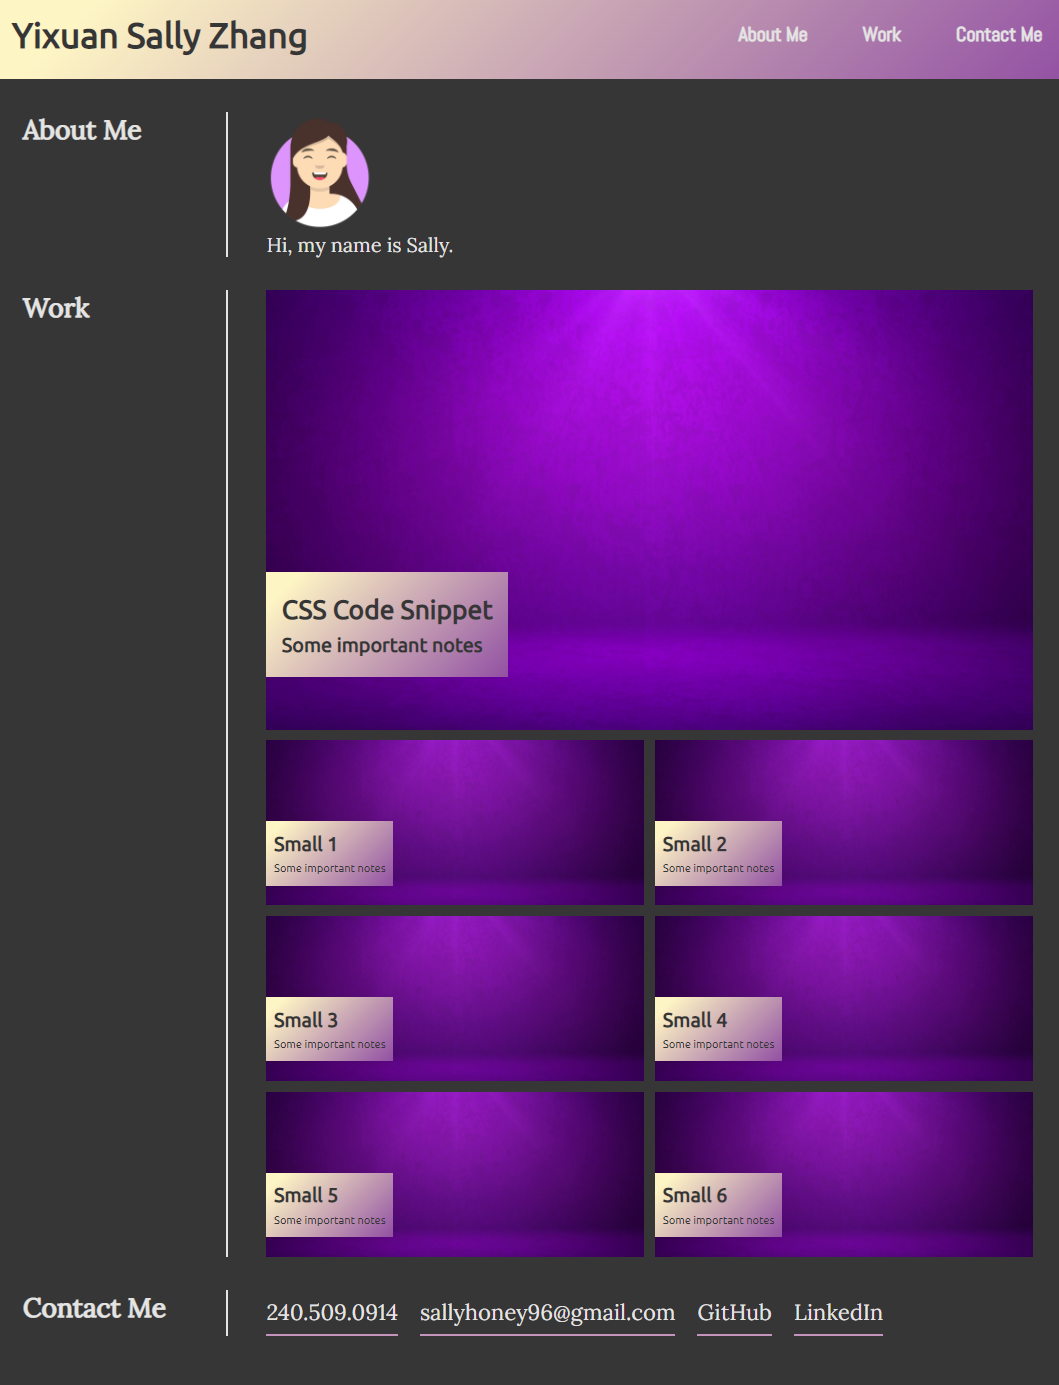
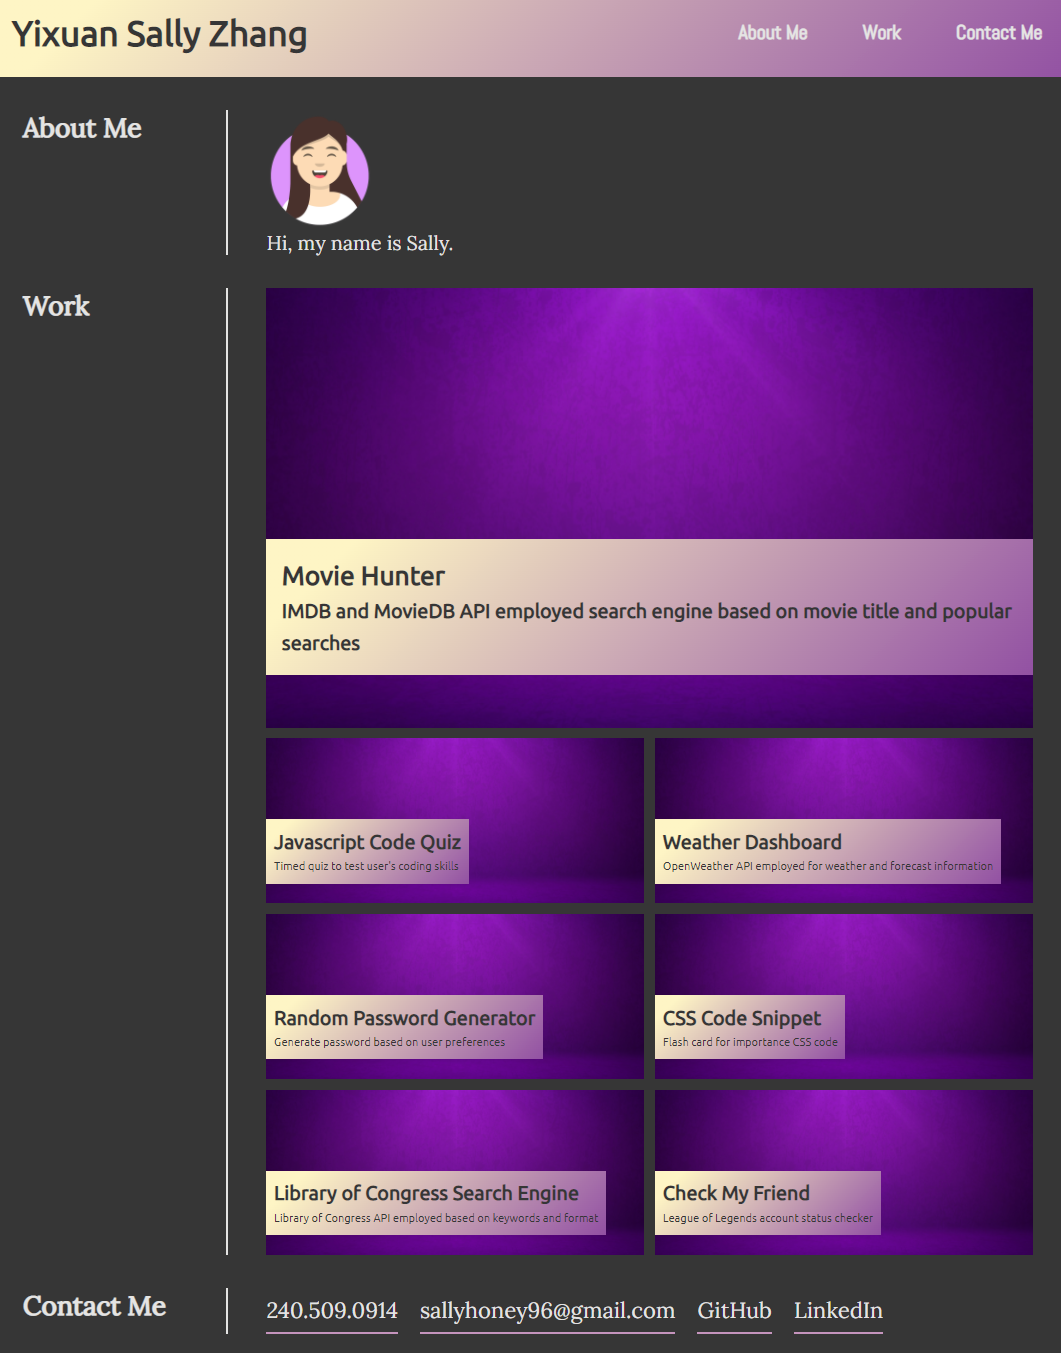
update portfolio

diff --git a/index.html b/index.html
@@ -39,60 +39,60 @@
                 <h2 class="title" id="work">Work</h2>
                 <div class="content">
                     <div class="project large">
-                        <a href="https://banbanleelee.github.io/CSSCodeSnippet/" target="_blank"><img src="./asset/image/placeholder.png" alt="CSS Code Snippet" class="large"/></a>
+                        <a href="https://anthonypacella.github.io/MovieHunter/" target="_blank"><img src="./asset/image/placeholder.png" alt="Movie Hunter" class="large"/></a>
                         <div class="text-box">
-                            <div class="project-title">CSS Code Snippet</div>
-                            <div class="project-subtitle">Some important notes</div>
+                            <div class="project-title">Movie Hunter</div>
+                            <div class="project-subtitle">IMDB and MovieDB API employed search engine based on movie title and popular searches</div>
                         </div>
                     </div>
                     
                     <div class="project medium">
                         <div class="project small">
-                            <a href="https://banbanleelee.github.io/CSSCodeSnippet/" target="_blank"><img src="./asset/image/placeholder.png" alt="CSS Code Snippet" class="small"/></a>
+                            <a href="https://banbanleelee.github.io/JavascriptCodeQuiz/" target="_blank"><img src="./asset/image/placeholder.png" alt="Javascript Code Quiz" class="small"/></a>
                             <div class="text-box">
-                                <div class="project-title">Small 1</div>
-                                <div class="project-subtitle">Some important notes</div>
+                                <div class="project-title">Javascript Code Quiz</div>
+                                <div class="project-subtitle">Timed quiz to test user's coding skills</div>
                             </div>
                         </div>
                         <div class="project small">
-                            <a href="https://banbanleelee.github.io/CSSCodeSnippet/" target="_blank"><img src="./asset/image/placeholder.png" alt="CSS Code Snippet" class="small"/></a>
+                            <a href="https://banbanleelee.github.io/WeatherDashboard/" target="_blank"><img src="./asset/image/placeholder.png" alt="Weather Dashboard" class="small"/></a>
                             <div class="text-box">
-                                <div class="project-title">Small 2</div>
-                                <div class="project-subtitle">Some important notes</div>
+                                <div class="project-title">Weather Dashboard</div>
+                                <div class="project-subtitle">OpenWeather API employed for weather and forecast information</div>
                             </div>
                         </div>
                     </div>
                     
                     <div class="project medium">
                         <div class="project small">
-                            <a href="https://banbanleelee.github.io/CSSCodeSnippet/" target="_blank"><img src="./asset/image/placeholder.png" alt="CSS Code Snippet" class="small"/></a>
+                            <a href="https://banbanleelee.github.io/RandomPasswordGenerator/" target="_blank"><img src="./asset/image/placeholder.png" alt="Random Password Generator" class="small"/></a>
                             <div class="text-box">
-                                <div class="project-title">Small 3</div>
-                                <div class="project-subtitle">Some important notes</div>
+                                <div class="project-title">Random Password Generator</div>
+                                <div class="project-subtitle">Generate password based on user preferences</div>
                             </div>
                         </div>
                         <div class="project small">
                             <a href="https://banbanleelee.github.io/CSSCodeSnippet/" target="_blank"><img src="./asset/image/placeholder.png" alt="CSS Code Snippet" class="small"/></a>
                             <div class="text-box">
-                                <div class="project-title">Small 4</div>
-                                <div class="project-subtitle">Some important notes</div>
+                                <div class="project-title">CSS Code Snippet</div>
+                                <div class="project-subtitle">Flash card for importance CSS code</div>
                             </div>
                         </div>
                     </div>
 
                     <div class="project medium">
                         <div class="project small">
-                            <a href="https://banbanleelee.github.io/CSSCodeSnippet/" target="_blank"><img src="./asset/image/placeholder.png" alt="CSS Code Snippet" class="small"/></a>
+                            <a href="https://banbanleelee.github.io/LibraryofCongressSearchEngine/" target="_blank"><img src="./asset/image/placeholder.png" alt="Library of Congress Search Engine" class="small"/></a>
                             <div class="text-box">
-                                <div class="project-title">Small 5</div>
-                                <div class="project-subtitle">Some important notes</div>
+                                <div class="project-title">Library of Congress Search Engine</div>
+                                <div class="project-subtitle">Library of Congress API employed based on keywords and format</div>
                             </div>
                         </div>
                         <div class="project small">
-                            <a href="https://banbanleelee.github.io/CSSCodeSnippet/" target="_blank"><img src="./asset/image/placeholder.png" alt="CSS Code Snippet" class="small"/></a>
+                            <a href="https://banbanleelee.github.io/CheckMyFriend/" target="_blank"><img src="./asset/image/placeholder.png" alt="Check My Friend" class="small"/></a>
                             <div class="text-box">
-                                <div class="project-title">Small 6</div>
-                                <div class="project-subtitle">Some important notes</div>
+                                <div class="project-title">Check My Friend</div>
+                                <div class="project-subtitle">League of Legends account status checker</div>
                             </div>
                         </div>
                     </div>                    

diff --git a/README.md b/README.md
@@ -12,7 +12,7 @@ This project is a work portifolio website that captures my highlights. Each of t
 ```md
 When a user visits this website, he/she will be presented with three sections, including 'About Me', 'Work', and 'Contact Me'.
 ```
-<img src = "./asset/image/overview.png">
+![](./asset/image/overview.PNG)
 
 ## Application Link
 Deployed Page: https://banbanleelee.github.io/WorkPortfolio/
